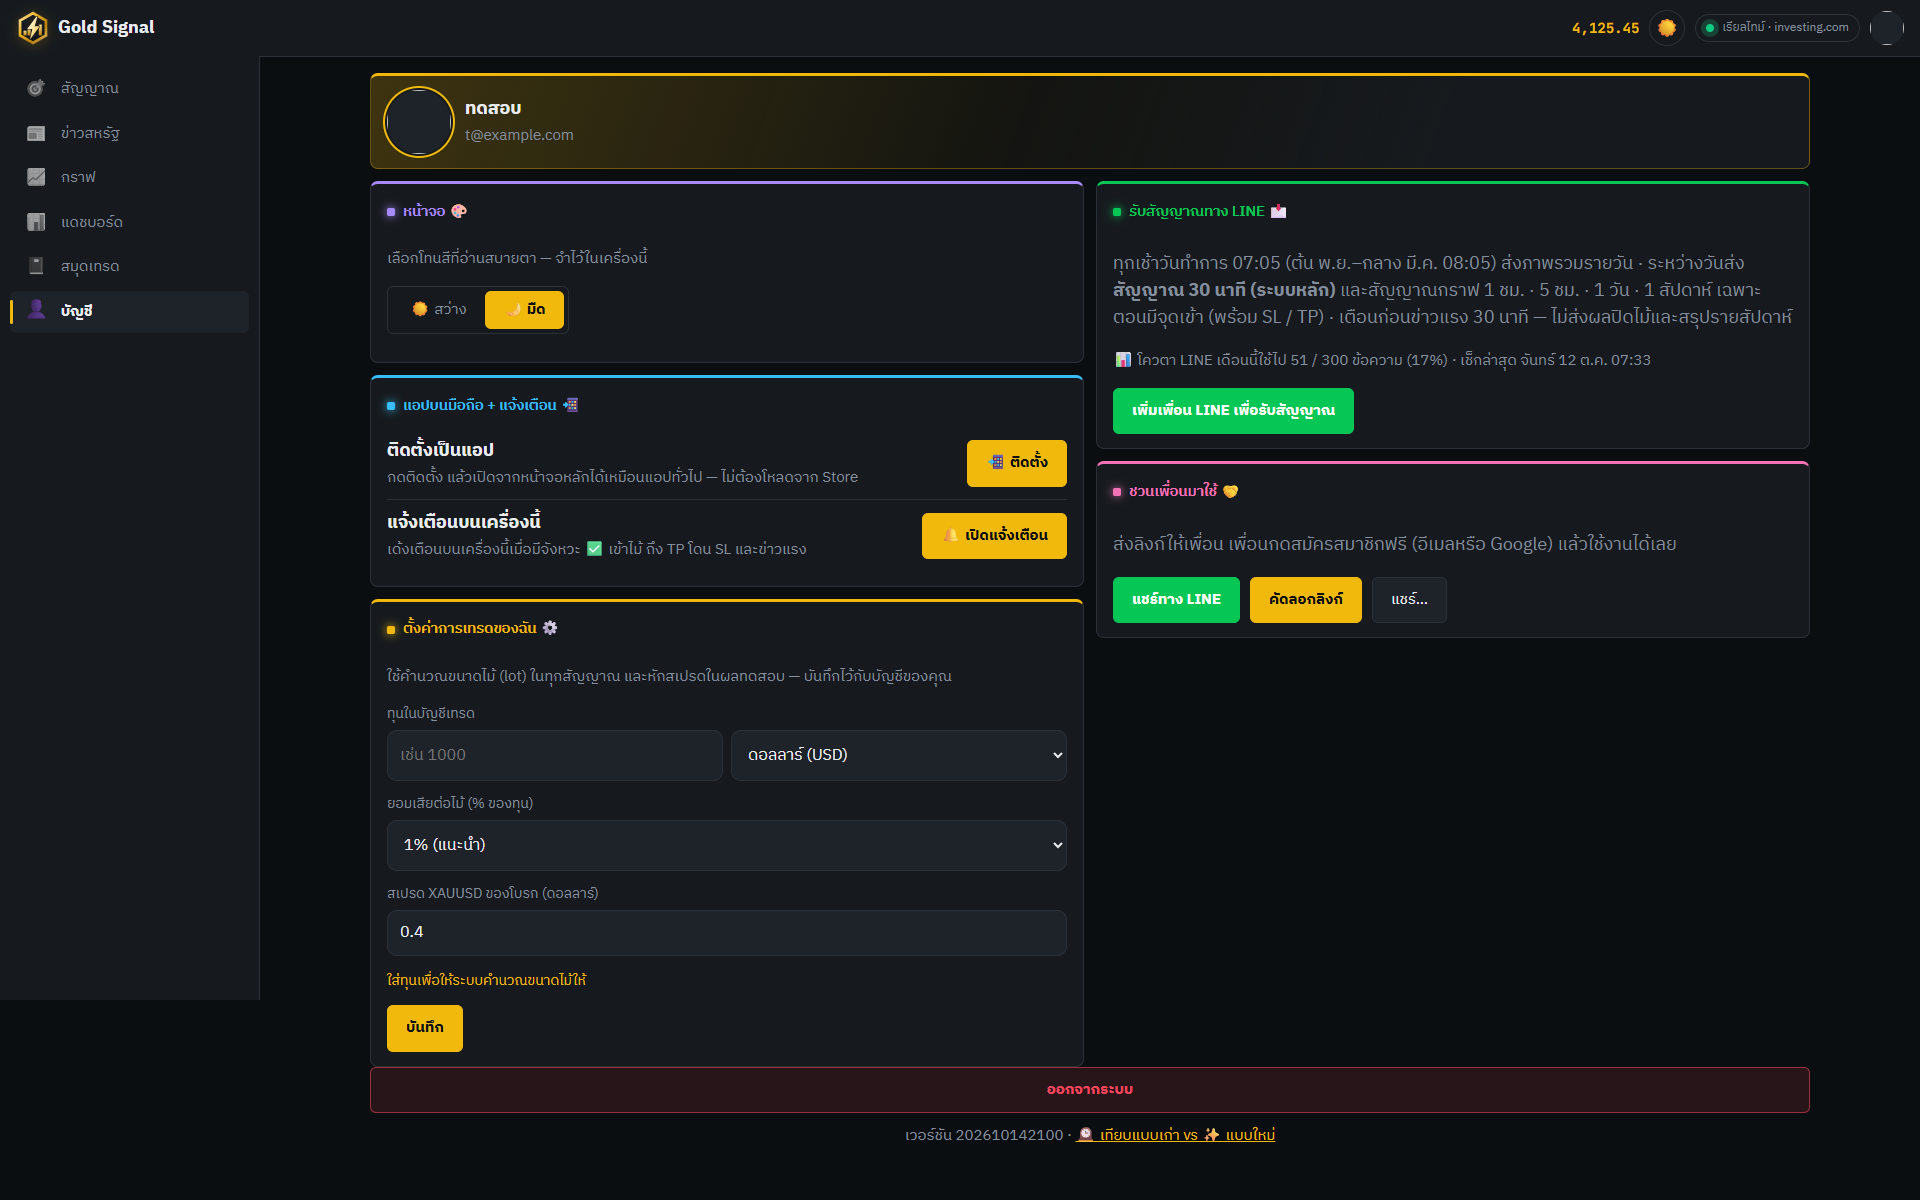
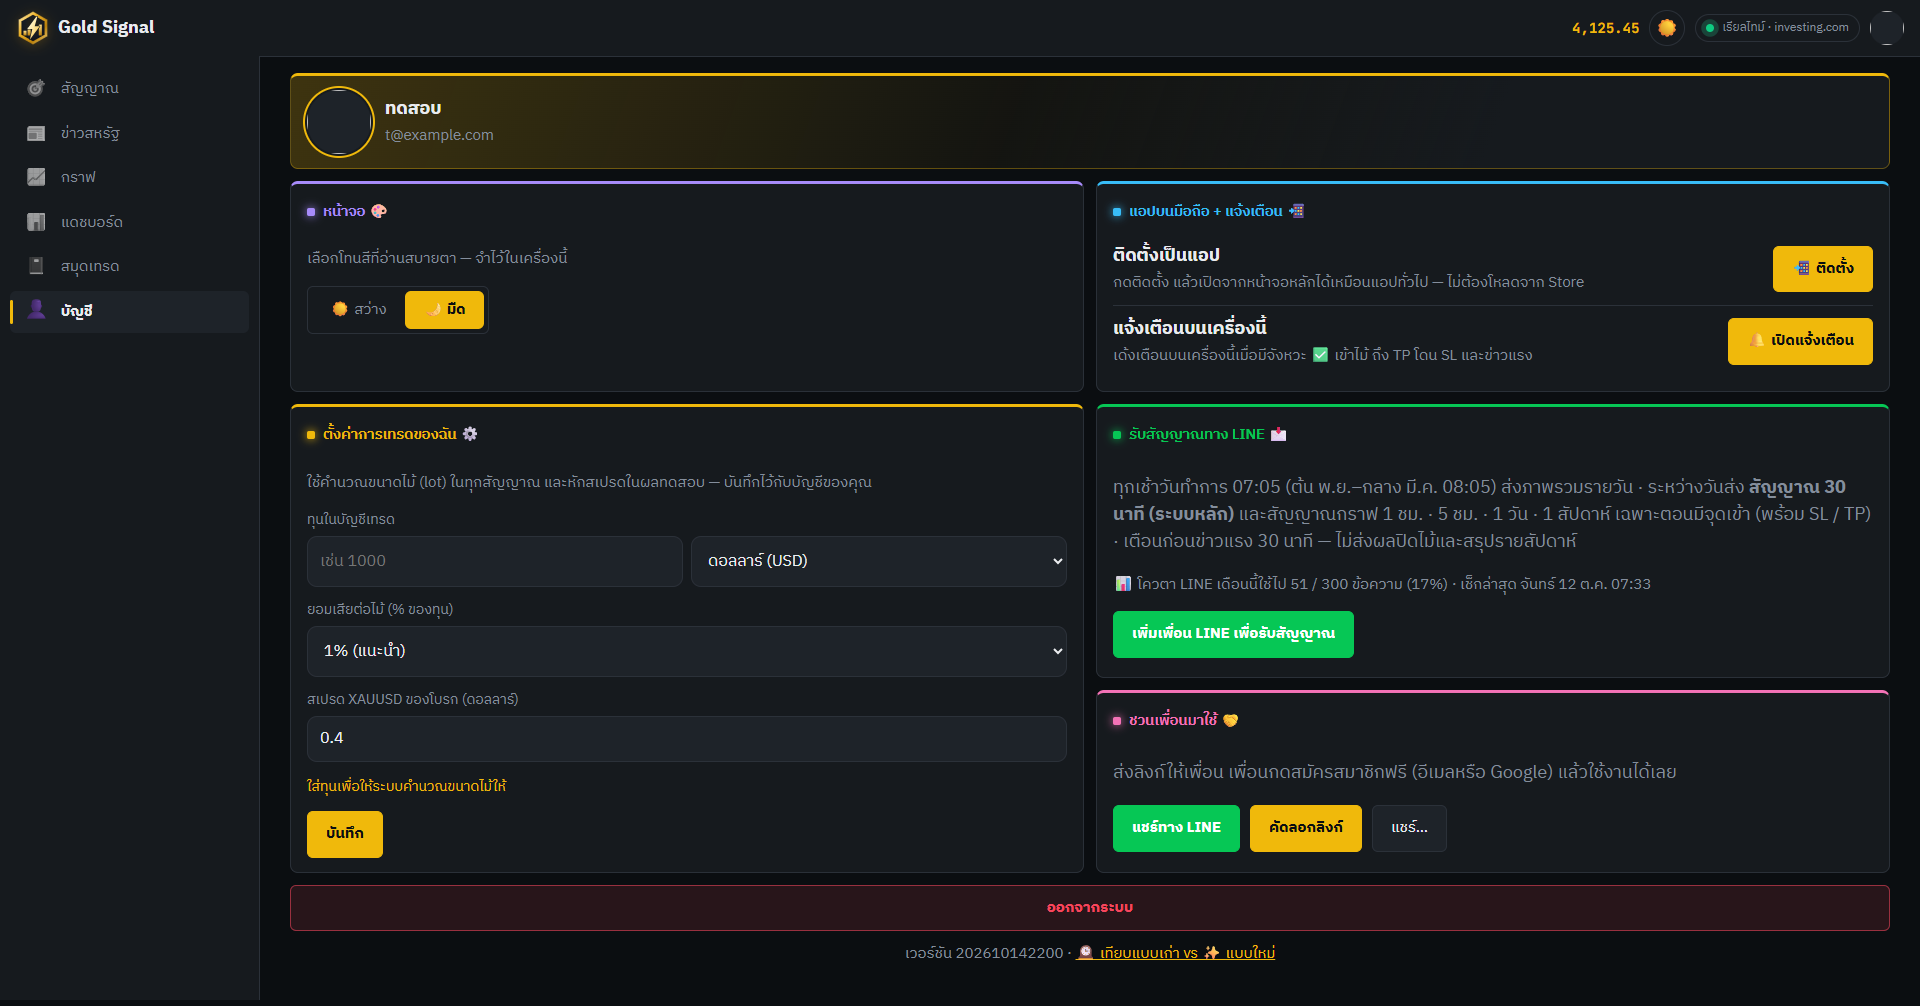
Account tab: balanced 2-column grid (both columns end level), cards stretch, max 1600px

diff --git a/terminal.css b/terminal.css
@@ -87,14 +87,18 @@ html.dark #setSave, html.dark #pwaPush, html.dark #shareCopy { background: var(-
 html.dark .seg button.on { background: var(--gold) !important; color: #0b0e11 !important; box-shadow: none !important; }
 
 /* account: sections with a coloured top edge + tinted heading chip; readable width on very wide screens */
-html.dark #tab-account { --acc: var(--gold); max-width: 1440px; margin-inline: auto; }
-/* two columns that stack cards without gaps (user 14 Oct: "ทำไมแบบนี้" — a grid row left a hole under the short card) */
+html.dark #tab-account { --acc: var(--gold); max-width: 1600px; margin-inline: auto; }
+/* two balanced columns, cards stretched so nothing is left empty (user 14 Oct: "ทำไมแบบนี้", then a screenshot of the
+   short right column). Left: หน้าจอ + ตั้งค่า · right: แอป + LINE + ชวนเพื่อน (source order 2..6) */
 @media (min-width: 1100px) {
-  html.dark #tab-account { column-count: 2; column-gap: 12px; }
-  html.dark #tab-account > * { break-inside: avoid; margin: 0 0 12px !important; }
-  html.dark #tab-account > section.card:not(.profile) { display: block; width: 100%; }
-  html.dark #tab-account > .profile, html.dark #tab-account > .wide, html.dark #tab-account > p, html.dark #tab-account > .admin-link { column-span: all; }
-  html.dark #tab-account > .wide:not([hidden]) { display: block; width: 100%; }
+  html.dark #tab-account:not([hidden]) { display: grid; grid-template-columns: 1fr 1fr; gap: 12px; align-items: stretch; }
+  html.dark #tab-account > * { margin: 0 !important; }
+  html.dark #tab-account > .profile, html.dark #tab-account > .wide, html.dark #tab-account > p { grid-column: 1 / -1; }
+  html.dark #tab-account > section.card:nth-of-type(2) { grid-column: 1; grid-row: 2; }
+  html.dark #tab-account > section.card:nth-of-type(3) { grid-column: 2; grid-row: 2; }
+  html.dark #tab-account > section.card:nth-of-type(4) { grid-column: 1; grid-row: 3 / span 2; }
+  html.dark #tab-account > section.card:nth-of-type(5) { grid-column: 2; grid-row: 3; }
+  html.dark #tab-account > section.card:nth-of-type(6) { grid-column: 2; grid-row: 4; }
 }
 html.dark #tab-account > section.card { border-top: 3px solid var(--acc); }
 html.dark #tab-account > section.card:nth-of-type(2) { --acc: #a78bfa; }

diff --git a/index.html b/index.html
@@ -21,7 +21,7 @@
   <link rel="stylesheet" href="live.css?v=202610141600">
   <link rel="stylesheet" href="theme.css?v=202610141700" id="themeLight">
   <link rel="stylesheet" href="design.css?v=202610141800">
-  <link rel="stylesheet" href="terminal.css?v=202610142100">
+  <link rel="stylesheet" href="terminal.css?v=202610142200">
   <script>/* apply the saved theme before the first paint */ var gsT = "dark"; try { gsT = localStorage.getItem("gs-theme") === "light" ? "light" : "dark"; } catch (e) {} /* dark trading terminal = default since 14 Oct 2026 */ if (gsT === "dark") { document.getElementById("themeLight").disabled = true; document.documentElement.classList.add("dark"); document.querySelector("meta[name=theme-color]").content = "#0b0e11"; }</script>
   <script src="https://unpkg.com/lightweight-charts@4.2.0/dist/lightweight-charts.standalone.production.js"></script>
 </head>
@@ -540,7 +540,7 @@
 
         <a class="btn gold wide admin-link" id="adminLink" href="/admin.html" hidden>🛠 หลังบ้าน — สมาชิกและการเข้าใช้งาน</a>
         <button class="btn danger wide" id="signOut">ออกจากระบบ</button>
-        <p class="muted small center">เวอร์ชัน 202610142100 · <a href="compare.html">🕰 เทียบแบบเก่า vs ✨ แบบใหม่</a></p>
+        <p class="muted small center">เวอร์ชัน 202610142200 · <a href="compare.html">🕰 เทียบแบบเก่า vs ✨ แบบใหม่</a></p>
       </section>
     </main>
   </div>

diff --git a/compare.html b/compare.html
@@ -39,6 +39,15 @@
   <p class="lead">สิ่งที่เปลี่ยนในแต่ละรอบของ Gold Signal · <a href="./">กลับไปที่เว็บ</a></p>
 
   <section>
+    <h2>⚖ หน้าบัญชี: 2 คอลัมน์สูงเท่ากัน</h2>
+    <p class="date">14 ต.ค. 2569</p>
+    <div class="pair">
+      <div class="side old"><h3>🕰 แบบเก่า — คอลัมน์ขวาสั้น เหลือที่ว่างใหญ่ด้านล่าง</h3><img loading="lazy" src="compare/acc3-old-1920.png" alt="คอลัมน์ไม่เท่ากัน"></div>
+      <div class="side new"><h3>✨ แบบใหม่ — ซ้าย: หน้าจอ + ตั้งค่า · ขวา: แอป + LINE + ชวนเพื่อน · จบระดับเดียวกัน</h3><img loading="lazy" src="compare/acc3-new-1920.png" alt="คอลัมน์เท่ากัน"></div>
+    </div>
+  </section>
+
+  <section>
     <h2>🧱 หน้าบัญชี: การ์ดเรียงต่อกัน ไม่มีช่องว่าง</h2>
     <p class="date">14 ต.ค. 2569</p>
     <div class="pair">

diff --git a/Skill.md b/Skill.md
@@ -365,6 +365,11 @@ gh workflow run price-alerts.yml -R tanakrthum254614-max/gold-signal -f send=fal
 
 > จัดเรียงใหม่ 14 ต.ค. 2569: เนื้อหาเดิมครบทุกหัวข้อ แค่เรียงตามวันที่ (ใหม่ → เก่า) · งานใหม่ให้เพิ่มหัวข้อไว้บนสุดของส่วนนี้
 
+## ⚖ หน้าบัญชี 2 คอลัมน์สูงเท่ากัน (14 ต.ค. 2569 · เวอร์ชัน 202610142200)
+- ผู้ใช้ส่งรูป (ไม่มีข้อความ) หลัง CSS columns: คอลัมน์ซ้ายยาว (หน้าจอ+แอป+ตั้งค่า) ขวาสั้น (LINE+ชวนเพื่อน) → ที่ว่างใหญ่ขวาล่าง
+- terminal.css ≥1100px: grid 2 คอลัมน์วางเอง (ตามลำดับ section.card ใน HTML): 2 หน้าจอ = ซ้ายแถว 2 · 3 แอป = ขวาแถว 2 · 4 ตั้งค่า = ซ้ายแถว 3–4 · 5 LINE = ขวาแถว 3 · 6 ชวนเพื่อน = ขวาแถว 4 · align stretch (การ์ดยืดเต็มช่อง) · max-width 1600 · **เพิ่ม/ย้ายการ์ดในหน้าบัญชี = ต้องแก้ตำแหน่ง nth-of-type ด้วย**
+- วัด acc.cjs: ขอบล่างคอลัมน์ซ้าย = ขวา ทุกจอ (1440: 952/952, 1920: 873/873) · มือถือคอลัมน์เดียวเหมือนเดิม · adminLink ยังซ่อน · ไม่มี error
+
 ## 🧱 หน้าบัญชีไม่มีช่องว่าง (14 ต.ค. 2569 · เวอร์ชัน 202610142100)
 - ผู้ใช้ (รูปหน้าบัญชี 1920px): "ทำไมแบบนี้" → grid 2 คอลัมน์ทำให้แถวสูงเท่าการ์ดที่สูงกว่า → ช่องว่างใต้การ์ด "หน้าจอ" + max-width 1180 ขอบว่างเยอะ
 - terminal.css: `#tab-account` max-width 1440 · ≥1100px `column-count: 2` + `break-inside: avoid` (การ์ดต่อกันลงไป) · โปรไฟล์/ปุ่ม wide/เวอร์ชัน `column-span: all` · `.wide:not([hidden])` display block (ปุ่มเป็น inline-block ใช้ column-span ไม่ได้)
